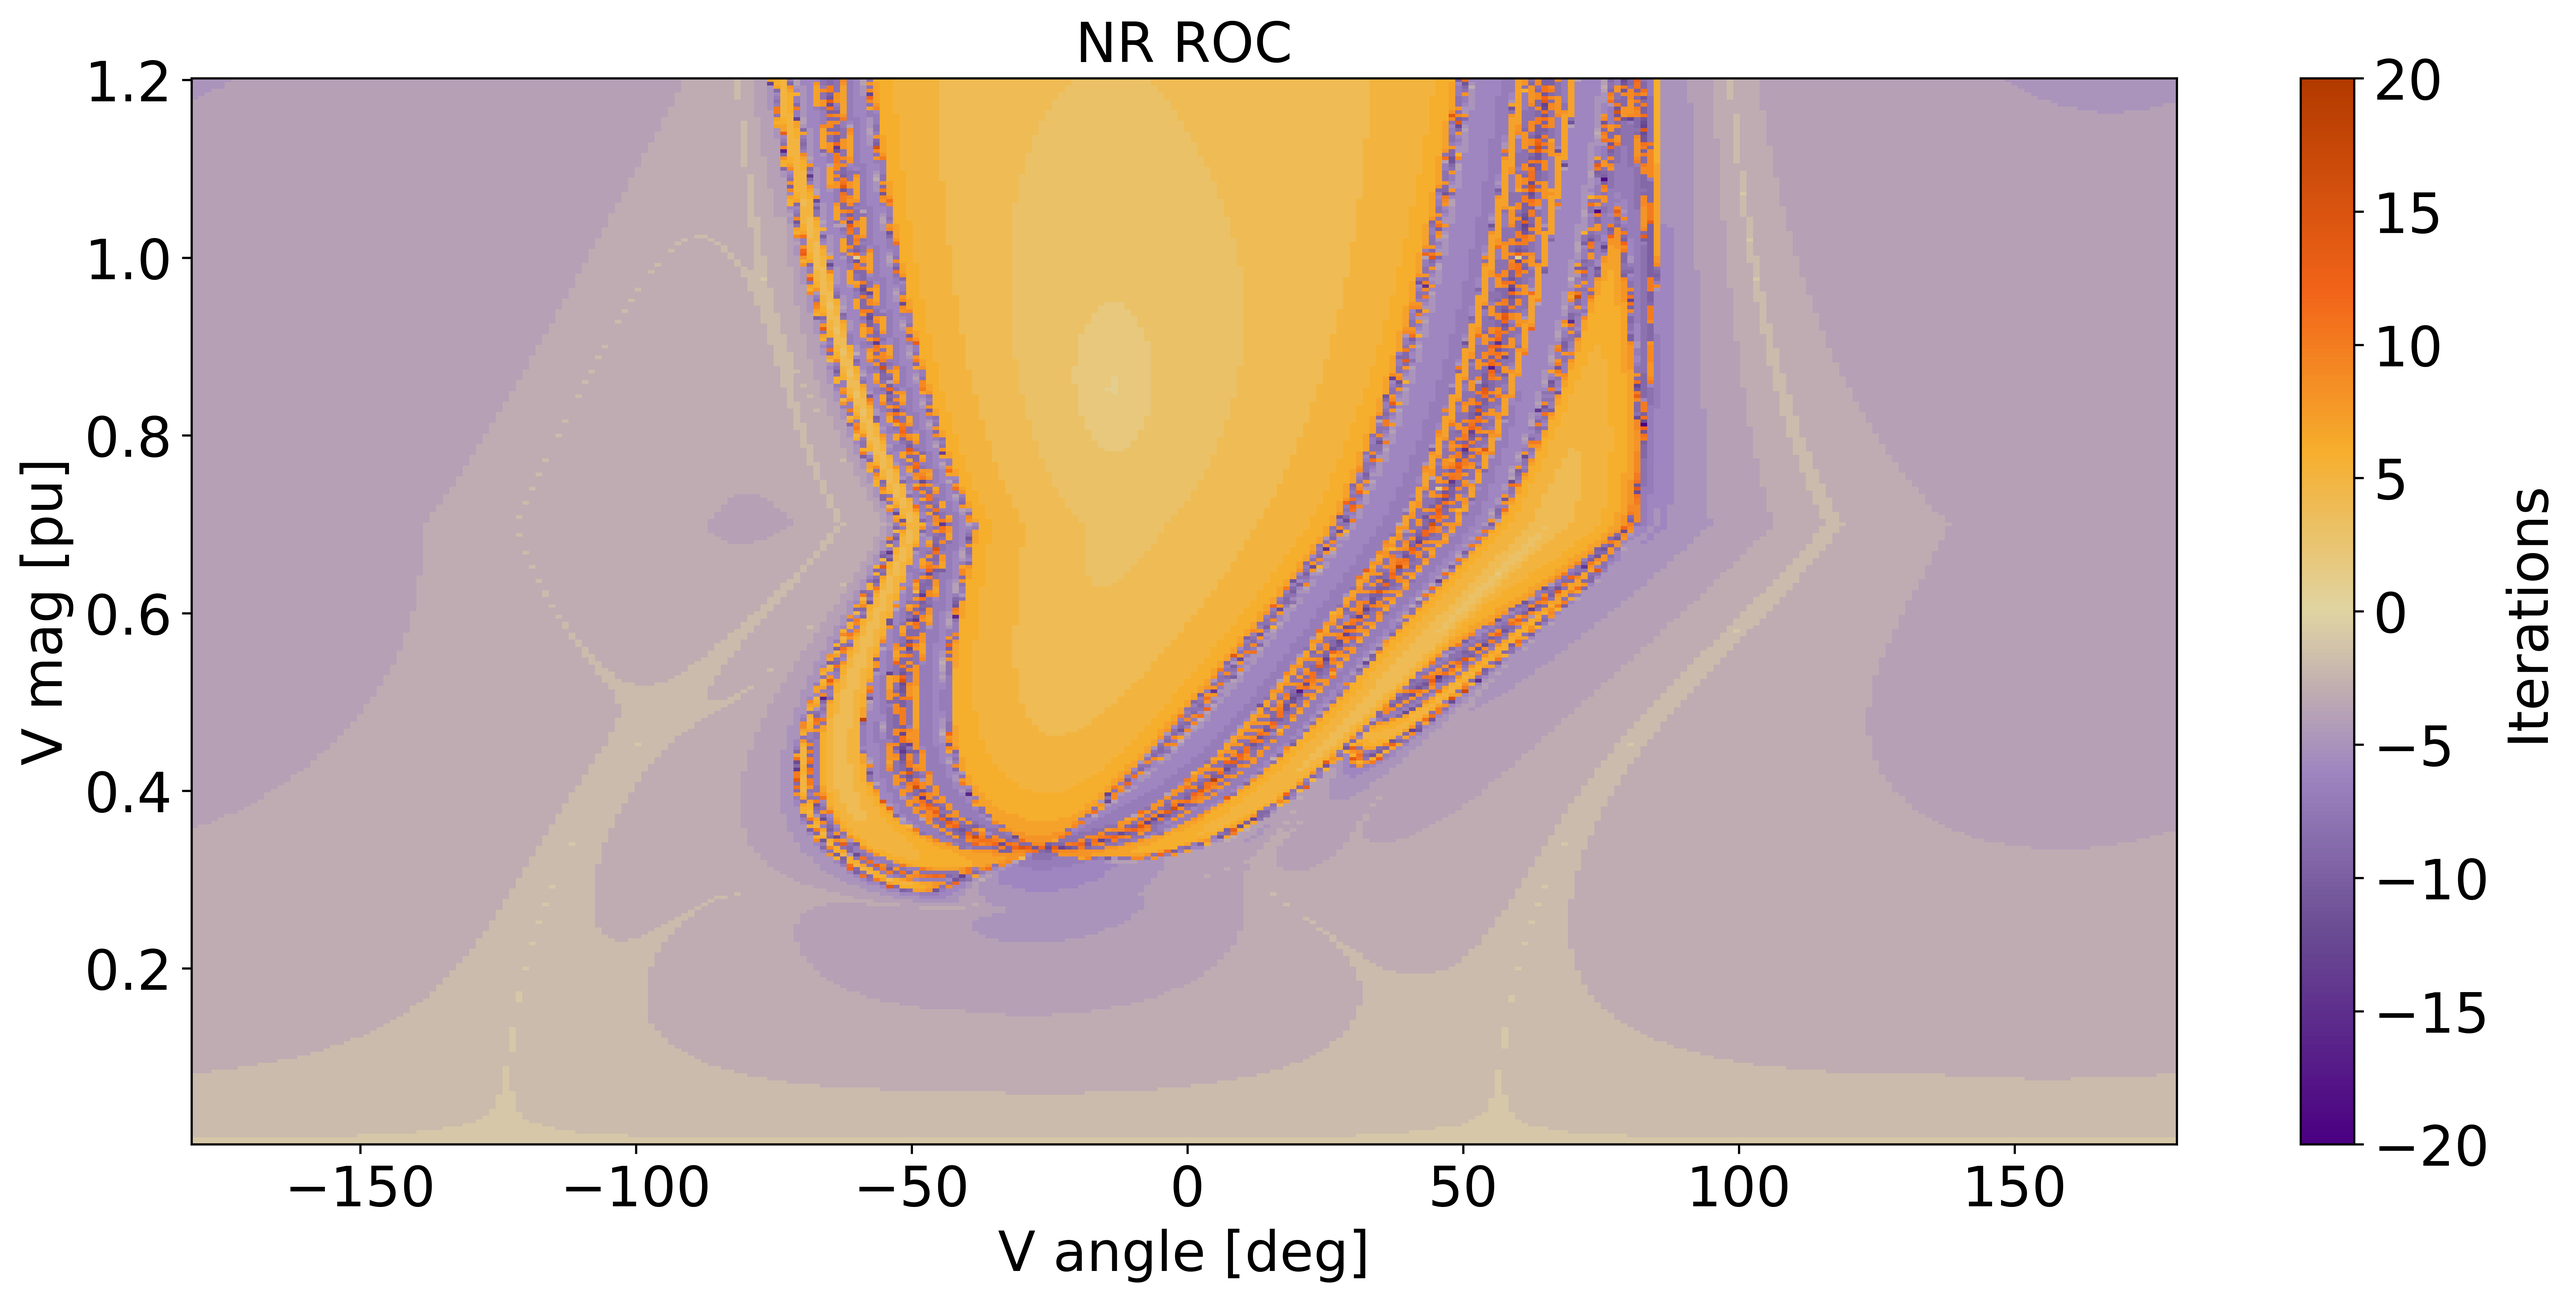
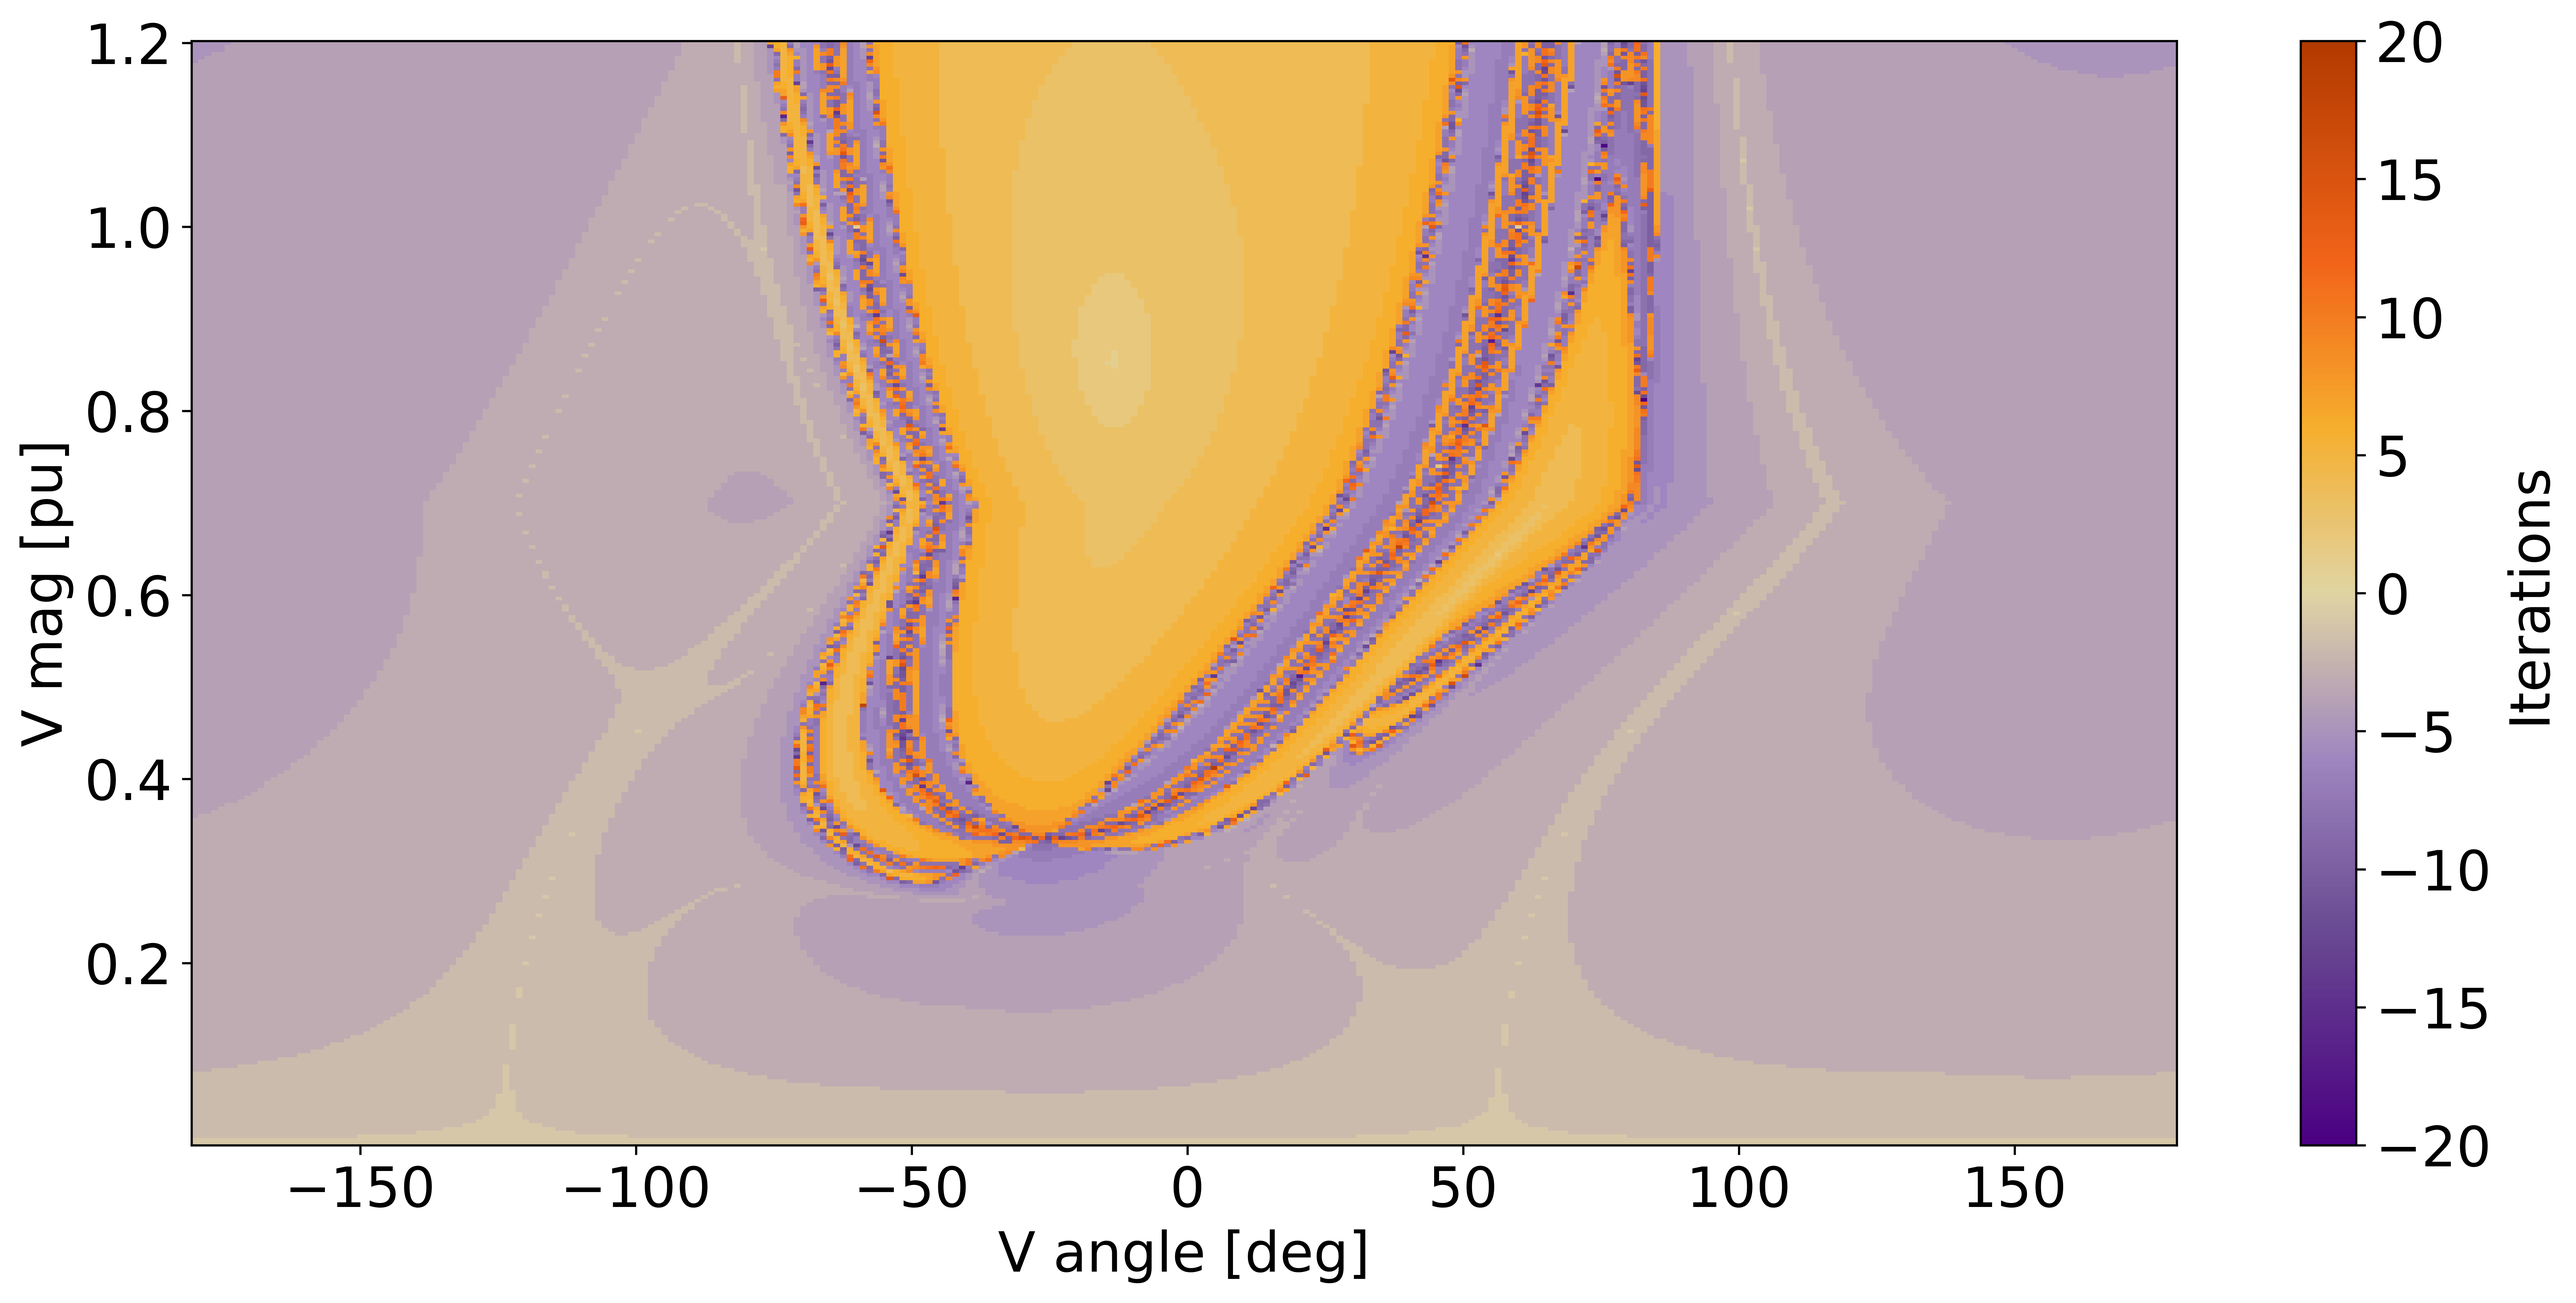
Few tweaks

diff --git a/UsingCSV2.py b/UsingCSV2.py
@@ -5,7 +5,7 @@ from matplotlib.colors import LinearSegmentedColormap
 import os
 
 cwd = os.getcwd()
-path = os.path.join(cwd, 'Inputs\\New_PW_solutions_2bus_Polar.csv')
+path = os.path.join(cwd, 'Inputs\\New_PW_solutions_2000bus_6254.csv')
 
 # --------------------------
 # Load CSV
@@ -68,7 +68,7 @@ ax.tick_params(axis='x', labelsize=20)
 ax.tick_params(axis='y', labelsize=20)
 
 plt.tight_layout()
-plt.savefig('NR_ROC_2bus.png', dpi=600, bbox_inches='tight')
+plt.savefig('NR_ROC_2000bus.png', dpi=600, bbox_inches='tight')
 plt.show()
 
 
